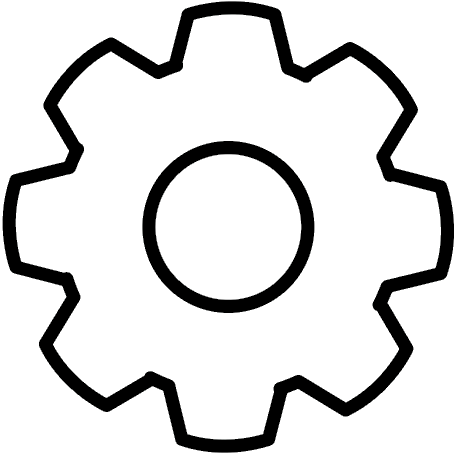
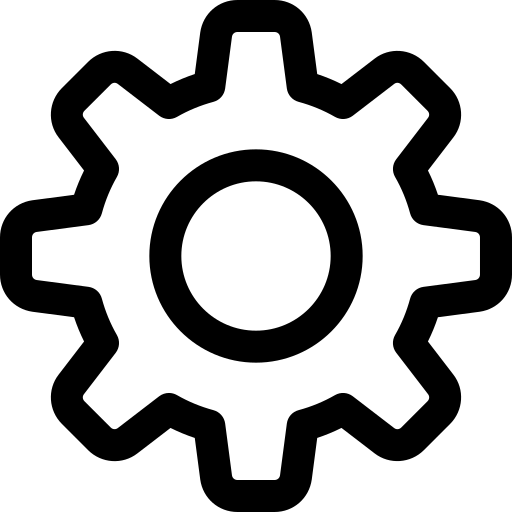
GH #1200 - Working on the IDE (settings).

Changed region(s): [[0.0, 0.0, 1.0, 1.0], [0.2757, 0.2769, 0.7352, 0.7077]]

diff --git a/code/zato-web-admin/src/zato/admin/templates/zato/service/ide.html b/code/zato-web-admin/src/zato/admin/templates/zato/service/ide.html
@@ -131,7 +131,7 @@
             </li>
             <li>
                 <a href="javascript:$.fn.zato.ide.switch_to_action_area('settings')" class="img-button">
-                    <img src="/static/gfx/editor/settings.png" class="button more-visible" title="Settings" />
+                    <img src="/static/gfx/editor/settings.png" class="button less-visible" title="Settings" />
                 </a>
             </li>
             {% if False %}

diff --git a/code/zato-web-admin/src/zato/admin/static/css/service/ide.css b/code/zato-web-admin/src/zato/admin/static/css/service/ide.css
@@ -48,13 +48,20 @@ img.button {
     opacity: 30%;
 }
 
-img.button.more-visible {
-    opacity: 45%;
+img.button.less-visible {
+    opacity: 25%;
+}
+
+img.button:hover {
+    background-color: #ccc;
 }
 
 img.button:hover {
     opacity: 100%;
-    background-color: #ccc;
+}
+
+img.button.less-visible:hover {
+    opacity: 60%;
 }
 
 a.img-button {
